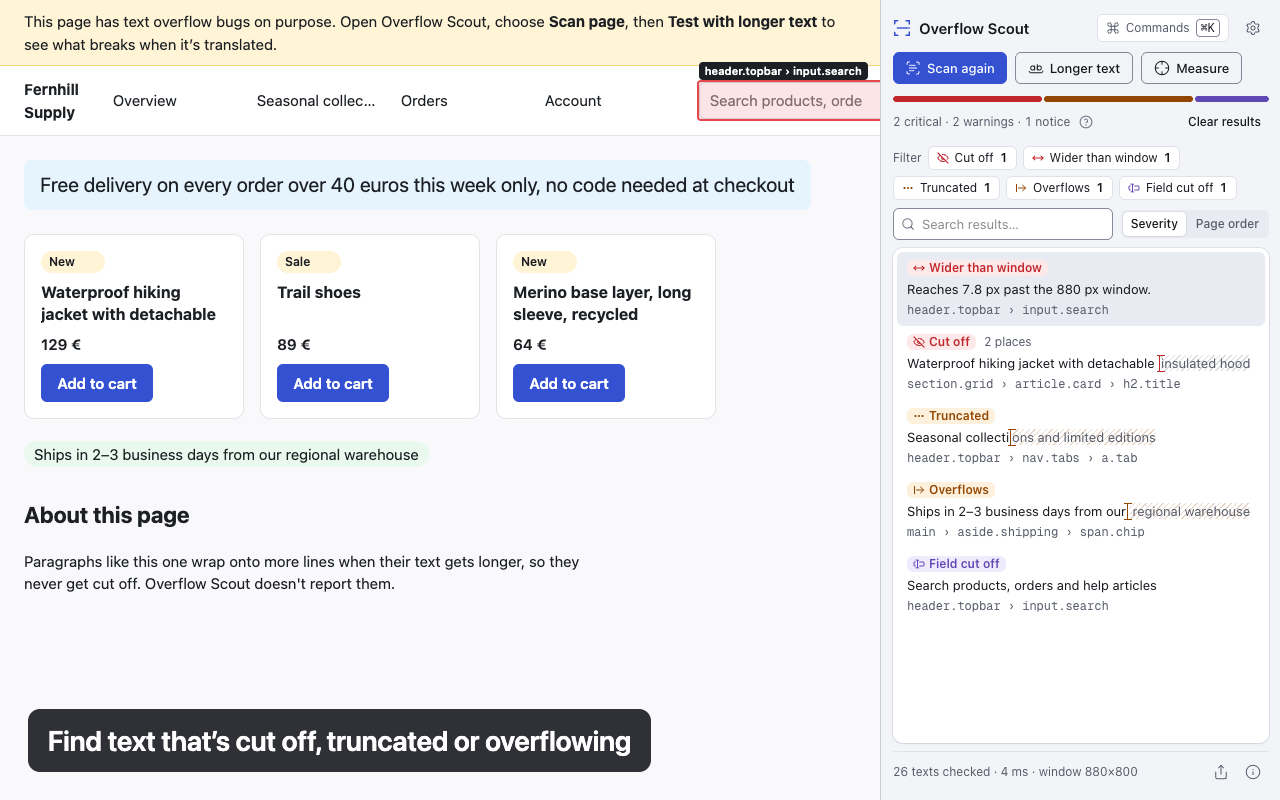
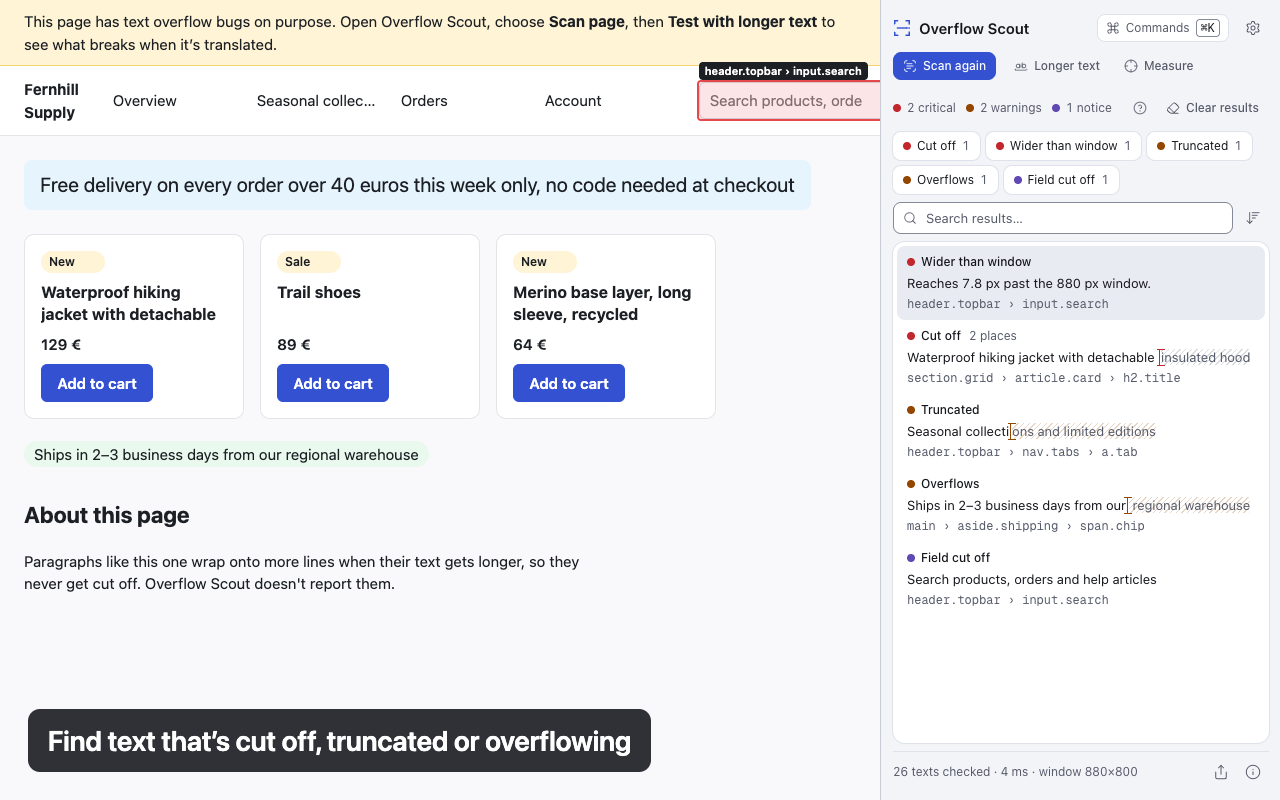
docs: record the quiet-chrome pass, and refresh the store screenshots

Changed region(s): [[0.6875, 0.0625, 1.0, 0.7812]]

diff --git a/docs/design/DIRECTION.md b/docs/design/DIRECTION.md
@@ -88,9 +88,9 @@ horizontal scroll, a text cursor).
 ### Space, shape, motion
 
 - 4 px grid. Panel padding 12. Rows 36 px (compact).
-- Radius 6 for controls, 10 for cards. Raised surfaces sit on the ground with
-  a hairline and a 1 px soft shadow; deeper shadows only on floating layers
-  (palette, dialogs, tooltips, toasts). No glass or blur.
+- Radius 8 for controls, 12 for cards. Raised surfaces sit on the ground with
+  a hairline only; shadows only on floating layers (palette, dialogs,
+  tooltips, toasts). No glass or blur.
 - The parts the browser draws are themed too: text selection, the caret,
   thin scrollbars, focus rings, native control accents.
 
@@ -103,11 +103,37 @@ One authored moment; everything else answers an action.
   bar fills in (about 1.5 s, once).
 - **Continuity:** on narrow panels, list ⇄ detail is a View Transition. The
   detail's measure bar draws itself: the box first, then the bleed.
-- **Arrival:** when results land, the first eight rows stagger in (20 ms apart)
-  and the counts count up. Never again while filtering or scrolling.
-- **Feedback:** 120 ms press and hover; a light band runs along the scanning bar.
-- Arrivals ease with `cubic-bezier(0.16, 1, 0.3, 1)`. Under
-  `prefers-reduced-motion` all of it is off and content is visible at once.
+- **Arrival:** when results land, the first six rows fade and rise in (40 ms
+  apart) and the counts count up. Never again while filtering or scrolling.
+- **Feedback:** 150 ms press and hover (a color or surface step, never a
+  scale-up); a light band runs along the scanning bar while it works.
+- One curve for everything, `cubic-bezier(0.22, 1, 0.36, 1)`: 150 ms for
+  feedback, 220 ms for what enters, 280 ms for view changes. Nothing loops
+  except live progress. Under `prefers-reduced-motion` all of it is off and
+  content is visible at once.
+
+### Quiet chrome (2026-11-07)
+
+A first-time user called the panel cumbersome. The pass followed `unslop`
+(`.claude/skills/unslop`): color and detail belong to the one moment, the cut,
+and the chrome around it stays quiet.
+
+- **One primary action per view.** In the toolbar, Scan is filled; Longer text
+  and Measure are quiet until they're on. Below 360 px their labels are only
+  read out, so the toolbar keeps one line.
+- **Severity is a dot and words**, never a colored pill, in rows, chips and
+  headers. The three-color severity bar is gone: one line of counts says it.
+- **Results start high.** One summary line (counts, what the levels mean,
+  Clear results), the kind filters, then search with sort as a toggle.
+- **Details lead with the cut**, then one row of quiet actions: Show on page,
+  Try other text, and copy icons. The background (likely cause, element,
+  selector, the text before) folds under "Why it happens"; Ignore is a quiet
+  action at the end.
+- **Try other text** is one editor wherever it appears (a result's details, the
+  Measure card): the field holds exactly what's on the page and updates it as
+  you type. The length slider, "Translation length", "Worst case", "Twice as
+  long" and the real-world examples all write into it, so anything can be
+  edited further.
 
 ## Layout
 
